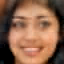
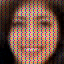
t

diff --git a/README.md b/README.md
@@ -34,7 +34,7 @@ VAE implemented with PyTorch
 ## Result
 
   All the result can be found under **prediction/** folder
-  The example below are results of experiment **vae_01_05**
+  The example below are results of experiment **vae_04_01**
 
   ### Reconstruction
 
